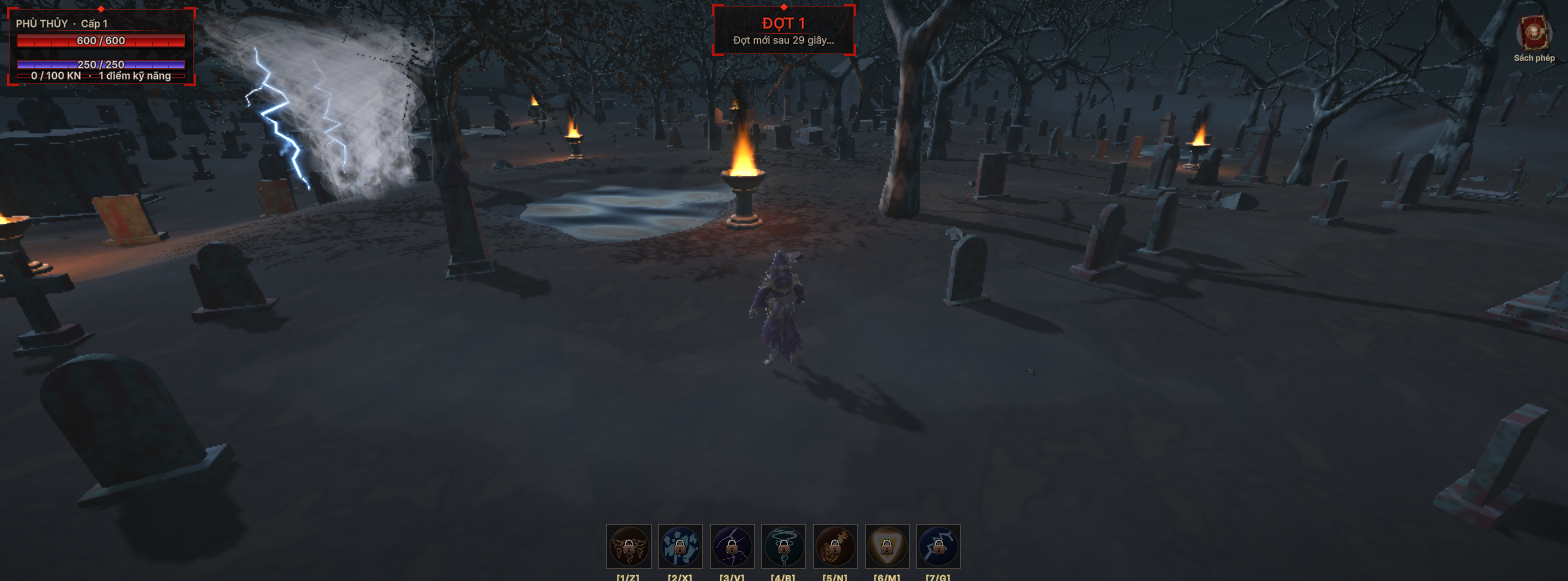
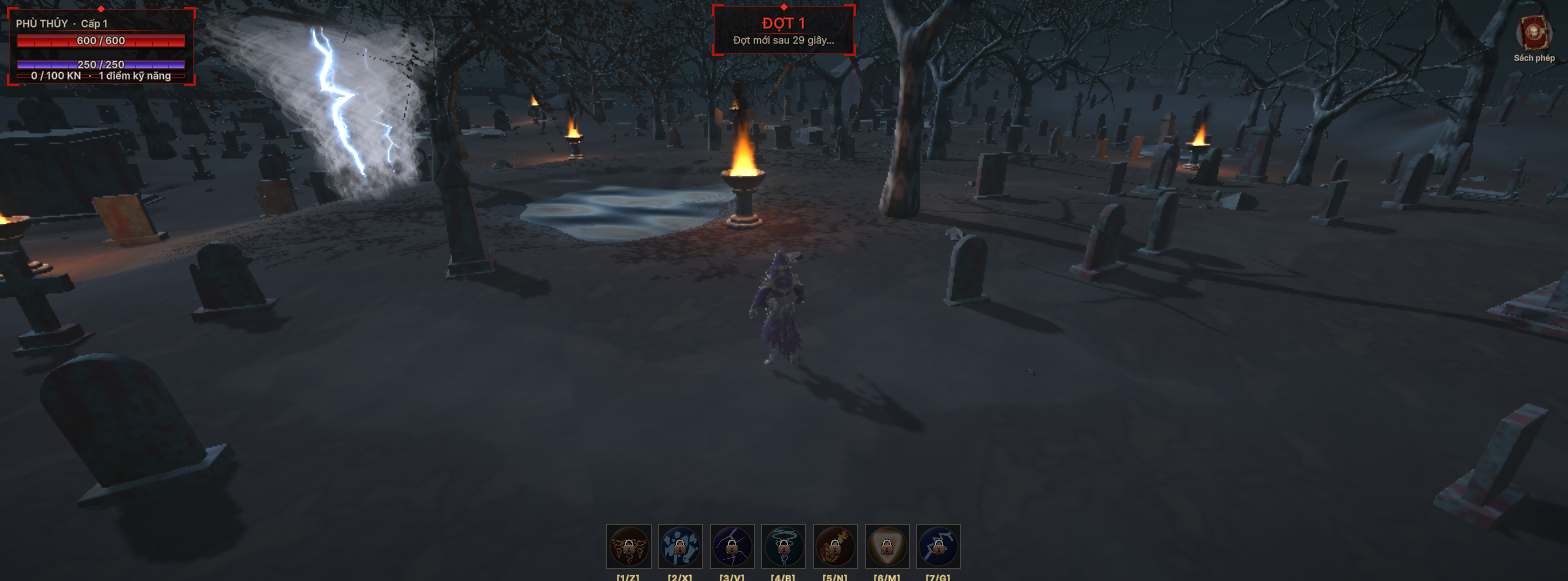
Gio loc: 2 tia set trong loc bam theo loc (LightningArc.BamTheo) thay vi ghim toa do the gioi bi bo lai 1,2-2,7 m; menu 71 do moi khung o cuoi khung + doi chung tia khong bam

Changed region(s): [[0.125, 0.031, 0.2812, 0.3408]]

diff --git a/Assets/Editor/ThuGioLoc.cs b/Assets/Editor/ThuGioLoc.cs
@@ -54,6 +54,9 @@ using UnityEngine;
 ///      be day tia so voi tia THAT cua Loc xoay (do cung luc, DOI CHUNG doc lap voi hang so) ~ ti le chieu cao do duoc.
 ///   D. toc do 9,5. F. vung trung 2,42 m: bia lech 2,72 m trung, 2,92 m truot (ban kinh cu 2,2 thi 2,72 truot).
 ///   L. 5 bia tren duong: 0 tia tu than loc sang bia, 0 chop, 0 chay sem; moi bia van mat dung 75.
+///   Sua tiep (nguoi dung: "2 tia set luon bi bo lai phia sau con loc"): MOI KHUNG, moi tia trong loc con song: khoang cach
+///      ngang tu tam HINH VE THAT (bounds renderer Core) va tu hai dau tia toi truc loc - phai ~ trong long loc suot doi tia;
+///      DOI CHUNG: mot tia cung kieu KHONG bam theo, sinh cung luc - phai bi bo lai > 1 m (phep do bat duoc loi cu).
 ///
 /// Ket qua: PlayTestShots/gioloc.txt, anh gioloc_*.png.
 /// </summary>
@@ -478,15 +481,40 @@ public static class ThuGioLoc
             // Chup lai moc dem NGAY TRUOC vong: tia sinh trong luc cho o tren da tat (song 0,13-0,28 s), dem chung la lech nhip
             arcTruoc = new HashSet<LightningArc>(Object.FindObjectsByType<LightningArc>(FindObjectsInactive.Exclude));
             nhip0 = VfxFactory.SoNhipSetTrongGioLoc;
+            // DOI CHUNG bo lai phia sau: tia khong bam theo, song 0,28 s
+            var tiaDoiChung = LightningArc.Create(loc.transform.position + Vector3.up * 4.5f, loc.transform.position + Vector3.up * 1f, 0.28f, 0.28f);
+            tiaDoiChung.name = "TAM_TiaDoiChung";
+            arcTruoc.Add(tiaDoiChung);
+            float lechDoiChungMax = 0f, lechHinhMax = 0f, lechDauMax = 0f; int soKhungDoLech = 0;
+            System.Func<Transform, float> ngang = tr => loc == null ? 0f : new Vector2(tr.position.x - loc.transform.position.x, tr.position.z - loc.transform.position.z).magnitude;
             float hanS = Time.time + 3.6f;
             while (Time.time < hanS && loc != null)
             {
                 demTia();
+                Vector3 tl = loc.transform.position;
+                if (tiaDoiChung != null)
+                {
+                    var rc = tiaDoiChung.transform.Find("Core");
+                    if (rc != null) { var bc = rc.GetComponent<MeshRenderer>().bounds.center; lechDoiChungMax = Mathf.Max(lechDoiChungMax, new Vector2(bc.x - tl.x, bc.z - tl.z).magnitude); }
+                }
+                foreach (var a in Object.FindObjectsByType<LightningArc>(FindObjectsInactive.Exclude))
+                {
+                    if (a.name != "SetTrongGioLoc") continue;
+                    var rc = a.transform.Find("Core");
+                    if (rc == null) continue;
+                    var bc = rc.GetComponent<MeshRenderer>().bounds.center;
+                    lechHinhMax = Mathf.Max(lechHinhMax, new Vector2(bc.x - tl.x, bc.z - tl.z).magnitude);
+                    lechDauMax = Mathf.Max(lechDauMax, Mathf.Max(new Vector2(a.start.x - tl.x, a.start.z - tl.z).magnitude, new Vector2(a.end.x - tl.x, a.end.z - tl.z).magnitude));
+                    soKhungDoLech++;
+                }
                 if ((loc.transform.position - cu).sqrMagnitude > 1e-6f) { lucDiCuoi = Time.time; cu = loc.transform.position; }
-                yield return null;
+                // Cuoi khung (sau LateUpdate, dung luc da ve): coroutine 'yield null' chay GIUA Update va LateUpdate - luc do loc da
+                // di buoc moi con tia chua bam theo, do ra lech gia 9,5 m/s x dt (~0,35-0,5 m, lan chay dau 0,68 m)
+                yield return new WaitForEndOfFrame();
             }
             float song = lucDiCuoi - batDau;
             int soNhip = VfxFactory.SoNhipSetTrongGioLoc - nhip0;
+            if (tiaDoiChung != null) Object.Destroy(tiaDoiChung.gameObject);
             Ghi(string.Format("C. luoi: {0}; cao hinh loc nho {1:F2} m, Loc xoay that {2:F2} m, ti le {3:F2}; mau vo trung binh ({4:F2}, {5:F2}, {6:F2}); den {7}; tia set {8}",
                 string.Join(", ", tenLuoi.ToArray()), caoNho, caoLon, caoNho / caoLon, tb.r, tb.g, tb.b, soDen, soArc));
             Ghi(string.Format("C. xoan: dai gio len cao goc tang {0} / giam {1}; quay that sau 0,1 s: goc tang {2} lop / giam {3} lop; truot anh len {4} lop / sai {5}",
@@ -506,6 +534,10 @@ public static class ThuGioLoc
             Kiem(soDen == 0, "loc nho con den diem");
             Kiem(soNhip >= 5 && soArc == soNhip * 2 && soKhungDung2 == soKhungCoTia, "tia set trong loc khong phai moi nhip dung 2 tia");
             Kiem(dauCao == soArc && duoiThap == soArc && ganTruc == soArc, "tia set khong danh tu dinh loc xuong trong long loc");
+            Ghi(string.Format("C. tia bam theo loc (moi khung, {0} lan do): tam hinh ve that cach truc loc lon nhat {1:F2} m, hai dau tia cach truc lon nhat {2:F2} m; DOI CHUNG tia khong bam theo: bi bo lai {3:F2} m",
+                soKhungDoLech, lechHinhMax, lechDauMax, lechDoiChungMax));
+            Kiem(lechDoiChungMax > 1f, "doi chung: tia khong bam theo ma khong bi bo lai - phep do vo nghia");
+            Kiem(soKhungDoLech > 20 && lechDauMax < 0.45f && lechHinhMax < 0.6f, "tia set trong loc bi bo lai phia sau con loc");
             Kiem(soTiaLon > 0 && dayLonMax > 0f && Mathf.Abs((dayNhoMax / dayLonMax) / (caoNho / caoLon) - 1f) < 0.15f, "be day tia set khong thu nho theo co loc (so voi tia that cua Loc xoay)");
             Kiem(Mathf.Abs(tiNgang - 1.1f) < 0.02f && Mathf.Abs(tiDoc - 1f) < 0.02f, "hinh loc khong rong them 10% (hoac bi doi chieu cao)");
             Kiem(Mathf.Abs(rMaxLucSinh - 0.495f) < 0.03f, "vong bui chan loc khong rong them 10%");

diff --git a/Assets/Scripts/Vfx/LightningArc.cs b/Assets/Scripts/Vfx/LightningArc.cs
@@ -57,6 +57,33 @@ public class LightningArc : MonoBehaviour
     static readonly List<Color> cols = new List<Color>();
     static readonly List<int> tris = new List<int>();
 
+    // Bam theo mot vat dang di chuyen (tia set trong long Gio loc). Null = dung yen tai cho nhu moi tia khac.
+    Transform bamTheo;
+    Vector3 lechDau, lechCuoi;
+
+    /// <summary>
+    /// Cho tia DI THEO vat <paramref name="t"/> (chi vi tri): hai dau giu nguyen khoang lech so voi vat luc goi.
+    /// Nguoi dung 17/09/2026: tia trong Gio loc "luon bi bo lai phia sau" - loc bay 9,5 m/s, tia song 0,13-0,28 s dung yen
+    /// o toa do the gioi nen loc di mat 1,2-2,7 m truoc khi tia tat.
+    /// </summary>
+    public void BamTheo(Transform t)
+    {
+        bamTheo = t;
+        if (t == null) return;
+        lechDau = start - t.position;
+        lechCuoi = end - t.position;
+    }
+
+    void LateUpdate()
+    {
+        if (bamTheo == null) return;
+        // Luoi dung trong khong gian cuc bo cua transform nay (goc = start) nen doi transform la ca tia doi theo;
+        // start/end doi cung luc de lan giat hinh sau (Rebuild) van dung cho.
+        start = bamTheo.position + lechDau;
+        end = bamTheo.position + lechCuoi;
+        transform.position = start;
+    }
+
     /// <summary>Tao mot tia set noi hai diem.</summary>
     public static LightningArc Create(Vector3 start, Vector3 end, float widthScale, float life)
     {

diff --git a/Assets/Scripts/Vfx/VfxGioLoc.cs b/Assets/Scripts/Vfx/VfxGioLoc.cs
@@ -144,8 +144,9 @@ public static partial class VfxFactory
     /// nhanh 1-2 / 2-3) nhung: CA HAI tia deu tu dinh xuong va nam gan truc; BE DAY nhan ti le chieu cao 5 / 15,37 (do giat va
     /// nhanh la ti le theo do dai tia nen tu nho theo). CHI HINH, khong sat thuong. Goi moi 0,45 s nhu Loc xoay.
     /// </summary>
-    public static void GioLocSetTrongLoc(Vector3 chan)
+    public static void GioLocSetTrongLoc(Transform loc)
     {
+        Vector3 chan = loc.position;
         SoNhipSetTrongGioLoc++;
         float k = GioLoc.ChieuCao / ChieuCaoLocXoayDo;
         float goc = Random.Range(0f, Mathf.PI * 2f);
@@ -161,6 +162,8 @@ public static partial class VfxFactory
                 ? LightningArc.Create(dinh, duoi, 0.85f * k, Random.Range(0.16f, 0.28f))
                 : LightningArc.Create(dinh, duoi, 0.70f * k, Random.Range(0.13f, 0.22f));
             arc.name = "SetTrongGioLoc";
+            // Tia BAM THEO loc (nguoi dung 17/09/2026: tia "luon bi bo lai phia sau" - loc 9,5 m/s di mat 1,2-2,7 m trong doi tia)
+            arc.BamTheo(loc);
             arc.segments = i == 0 ? 16 : 22;
             arc.jitter = i == 0 ? 1.5f : 1.05f;
             arc.branches = i == 0 ? Random.Range(1, 3) : Random.Range(2, 4);

diff --git a/Assets/Scripts/Skills/GioLoc.cs b/Assets/Scripts/Skills/GioLoc.cs
@@ -136,7 +136,7 @@ public class GioLoc : MonoBehaviour
 
         // Hai tia set tu dinh loc danh xuong trong long loc, lien tuc nhu Loc xoay - chi hinh
         setTimer -= dt;
-        if (setTimer <= 0f) { setTimer = NhipSetTrongLoc; VfxFactory.GioLocSetTrongLoc(transform.position); }
+        if (setTimer <= 0f) { setTimer = NhipSetTrongLoc; VfxFactory.GioLocSetTrongLoc(transform); }
 
         if (age >= ThoiGianSong) Tan();
     }

diff --git a/HUONG-DAN.md b/HUONG-DAN.md
@@ -8334,6 +8334,29 @@ sát thương hiện ra** (2,1 m) để số không đè lên chữ. Bỏ chữ 
 **Số đo** (menu 62, 0 lỗi): tung thật 10 lần → trúng 10, ngã 7; dấu hiệu hiện **376/383 khung hình đang ngã (98%)**;
 chuỗi ảnh mới thấy chữ NGÃ rõ ở cả 5 thời điểm, đè lên lửa.
 
+### Gió lốc: hai tia sét bị bỏ lại phía sau lốc — cho tia bám theo lốc (17/09/2026)
+
+Anh báo: 2 tia sét **luôn bị bỏ lại phía sau** cơn lốc.
+
+**Nguyên nhân:** `LightningArc` ghim hai đầu tia ở **toạ độ thế giới** lúc sinh. Tia sống 0,13–0,28 s, lốc bay 9,5 m/s → lốc đi mất
+**1,2–2,7 m** trước khi tia tắt. Phép thử hôm trước chỉ đo tia **lúc vừa sinh** (lệch trục ≤ 0,31 m) nên không thấy.
+
+**Sửa:** `LightningArc.BamTheo(Transform)` — nhớ khoảng lệch hai đầu so với vật, mỗi `LateUpdate` dời `start`/`end` và transform theo vật
+(lưới tia dựng trong không gian cục bộ của transform nên cả tia dời theo; lần giật hình sau vẫn đúng chỗ). `GioLocSetTrongLoc` nhận
+transform của lốc và gọi `BamTheo`. Các tia khác (Sấm sét, Lốc xoáy, Giựt sét…) không gọi nên không đổi.
+
+**Số đo** (menu 71, `gioloc.txt`, **0 lỗi**; ảnh `gioloc_can_1.png`): đo **mọi khung** suốt đời mỗi tia, ở **cuối khung** —
+
+| Đo | Kết quả |
+|---|---|
+| Tâm hình vẽ thật (bounds lưới lõi) cách trục lốc | lớn nhất **0,45 m** |
+| Hai đầu tia cách trục lốc | lớn nhất **0,35 m** (đúng bán kính đặt khi sinh) |
+| ĐỐI CHỨNG: tia cùng kiểu không bám theo, sinh cùng lúc | bị bỏ lại **2,38 m** |
+| Phần còn lại | 6 nhịp / 12 tia, cỡ tia ×0,325, bề ngang ×1,100, 9,50 m/s — như lần trước |
+
+Lần đo đầu ra lệch 0,68 m và báo lỗi — **do phép đo**: coroutine `yield return null` chạy **giữa Update và LateUpdate**, lúc lốc đã đi
+bước mới mà tia chưa kịp bám (9,5 m/s × dt ≈ 0,35–0,5 m). Đổi sang `WaitForEndOfFrame` (đo đúng lúc đã vẽ) thì ra 0,35 m.
+
 ### Gió lốc: rộng thêm 10%, bay 9,5 m/s, bỏ sét khi trúng, hai tia sét luôn đánh trong lòng lốc (17/09/2026)
 
 Anh báo: toàn bộ bán kính lốc **to thêm 10%**; **bỏ** hiệu ứng tia sét khi lốc trúng quái / người chơi khác; tốc độ **9,5**; **luôn có

diff --git a/CLAUDE.md b/CLAUDE.md
@@ -157,7 +157,7 @@ Bảng đầy đủ nằm ở mục "Phần 4" trong `HUONG-DAN.md`.
 - **Gió lốc** (`Skills/GioLoc.cs`, hình `Vfx/VfxGioLoc.cs`, hiệu ứng `Combat/BiHatTung.cs`, 16/09/2026): **1 lốc** mỗi lần tung (17/09/2026, trước là 3). **Hình dựng bằng
   Blender MCP** (17/09/2026, `CongCu/Blender/gio_loc.blend` → `Resources/KyNang/GioLoc/`: `LocNho.fbx` 3 vỏ + dải gió cao 5 m, ảnh gió liền mạch
   `GioDai`/`GioSoi`, flipbook `BuiDenCuon`; chân ×1,68 so với gốc, nhỏ dần về 0 ở 2,3 m; toàn bộ bề ngang ×1,1 lúc chạy `HeSoBanKinhGioLoc`), xám trắng như Lốc xoáy, **xoáy MỘT chiều đi lên** (mọi lớp quay âm quanh +Y + UV trượt âm — chiều
-  chọn bằng số đo trên lưới, `VfxFactory.ChieuQuayGioLoc`), khói bụi đen cuộn quanh thân + vệt phía sau, **2 tia sét luôn đánh từ đỉnh xuống trong lòng lốc** mỗi 0,45 s như Lốc xoáy, bề dày ×5/15,37 (`VfxFactory.GioLocSetTrongLoc`, chỉ hình; tia khi trúng đối thủ đã bỏ). Bay **9,5 m/s**
+  chọn bằng số đo trên lưới, `VfxFactory.ChieuQuayGioLoc`), khói bụi đen cuộn quanh thân + vệt phía sau, **2 tia sét luôn đánh từ đỉnh xuống trong lòng lốc** mỗi 0,45 s như Lốc xoáy, bề dày ×5/15,37, **bám theo lốc** (`LightningArc.BamTheo` — tia ghim toạ độ thế giới bị bỏ lại 1,2–2,7 m) (`VfxFactory.GioLocSetTrongLoc`, chỉ hình; tia khi trúng đối thủ đã bỏ). Bay **9,5 m/s**
   (người dùng chốt 17/09/2026) **xuyên mọi vật cản / người** — bám mặt đất bằng `GioLoc.MatDatY` (CHỈ lớp Ground; `GroundY` gồm cả Default làm lốc trèo lên mái nhà), tan sau 4,5 s; mỗi lốc trúng mỗi mục tiêu **một lần** 75, vùng 2,42 m, **55% hất tung** 0,5 s cao 1,5 m (mỗi lốc gieo riêng, khiên chặn); 20 năng lượng · hồi chiêu 0,4 · niệm 0,38.
   Bị hất = khoá như ngã + **ngắt chiêu** (`PlayerController.NgatChieu`, `EnemyAI.NgatDon`). Bit mạng **`CoHatTung` = bit thứ 5**, mặt nạ gói
   người chơi và gói quái đã nới **0x1F** (còn trống bit 7 gói người chơi, bit 6–7 gói quái). Lướt qua lò lửa thì `DapTatRoiChayLai(30)`.
